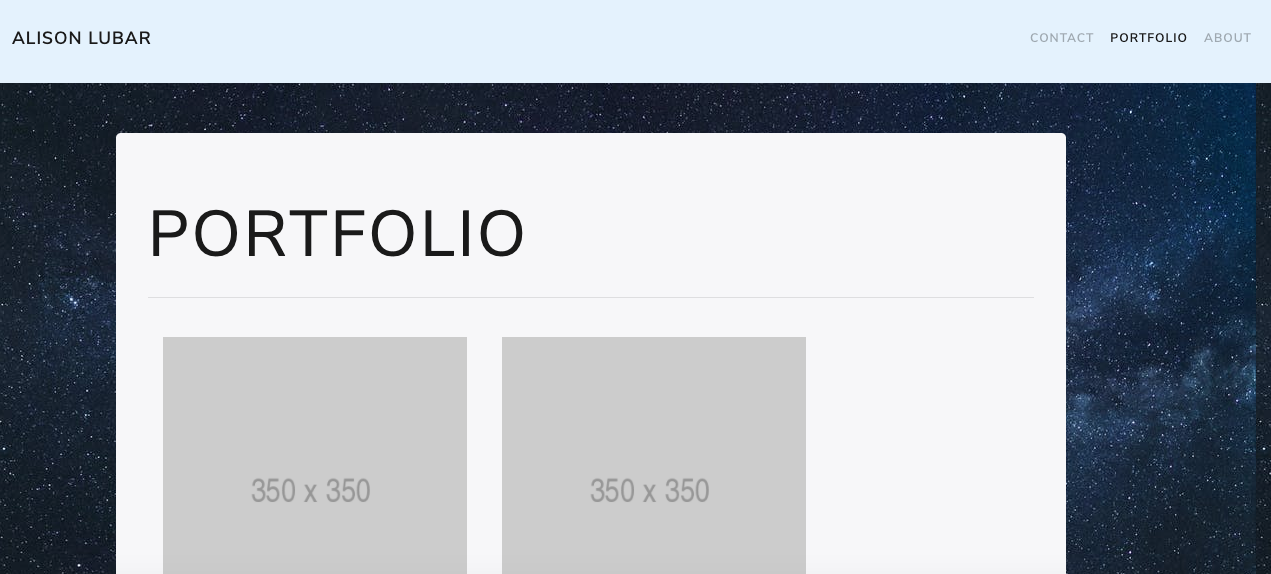
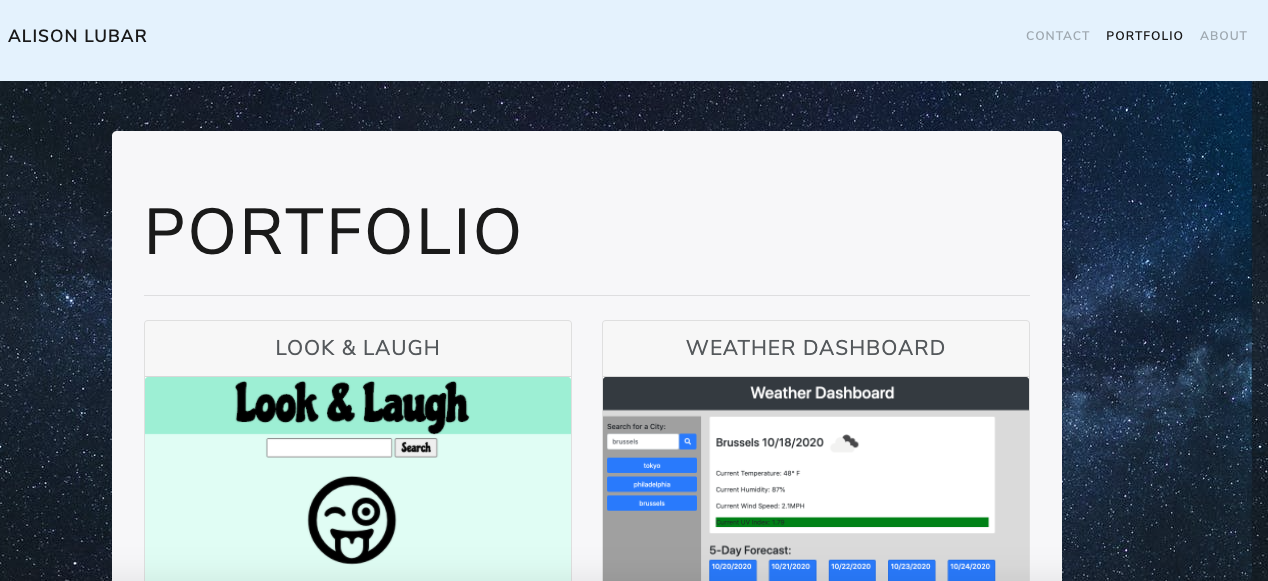
updated Readme

diff --git a/index.html b/index.html
@@ -48,8 +48,8 @@
             Journal, Cathexis Northwest Press, High Shelf, Gravitas, great
             weather for MEDIA, Toho, Rowan University’s Glassworks, Giovanni’s
             Room anthology
-            <em>queerbook</em>; she has work forthcoming with Fearsome
-            Critters, Storm of Blue Press, and Apiary Magazine. <br /><br />
+            <em>queerbook</em>, and Fearsome Critters' <em>Quaranzine</em>; she has work forthcoming with Apiary
+            Magazine. <br /><br />
             Alison graduated from the University of Delaware in 2007, with a
             double major in Philosophy and Italian literature. In 2009, while
             teaching at University City High School in West Philadelphia, she
@@ -72,6 +72,7 @@
         <section>
           <h2 class="socialMedia">CONNECT</h2>
           <p class="aboutme smLinks">
+
             LinkedIn:
             <a href="https://www.linkedin.com/in/alison-lubar-0210b31b3/"
               target="_blank">https://www.linkedin.com/in/alison-lubar-0210b31b3/</a><br />
@@ -85,7 +86,10 @@
         </section>
         <section>
           <h2 class="socialMedia">Resume</h2>
-          <p class="aboutme smLinks">Resume will go here. Location, & contact information
+          <p class="aboutme smLinks">
+            Phone: (610) 730-3014 </br>
+            Location: New Jersey & Philadelphia</br>
+            <a href="" download>Click here to download Alison's resume.</a>
           </p>
         </section>
       </div>

diff --git a/style/style.css b/style/style.css
@@ -70,12 +70,3 @@ body {
 .portfolio-card {
   font-size: 1.5em;
 }
-
-/* .card-img-top {
-  width: auto;
-  height: 250px;
-} */
-
-/* #lookLaugh {
-  wid
-} */

diff --git a/README.md b/README.md
@@ -1,8 +1,16 @@
-# porfolio
+# portfolio
 
-Originally created for Week 2 HW
+## Live Link
+[LINK TO DEPLOYED PAGE](https://theoriginalison.github.io/portfolio/)
 
-[LINK TO PAGE](https://theoriginalison.github.io/portfolio/)
+## Technology Used
+HTML
+Bootstrap & CSS
+
+## Description
+A responsive profile page that includes links to projects, contact information, a contact form, and resume.
+
+## Screenshots
 
 index.html (linked from both "Alison Lubar" and "About Me")
 ![Screenshot of the "About Me" / "Alison Lubar" page featuring a picture of Alison along with her bio"](./ReadMeImages.AboutMe.png)
@@ -11,38 +19,21 @@ contact.html (linked from "Contact")
 ![Screenshot of the "Contact" page featuring a box to enter name, email address, and a message to Alison.](./ReadMeImages.Contact.png)
 
 portfolio.html (linked from "Portfolio")
-![Screenshot of the "Portfolio" page showing grey placeholders where projects will soon be listed!](./ReadMeImages.Portfolio.png)
+![Screenshot of the "Portfolio" page showing four recent projects](./ReadMeImages.Portfolio.png)
 
-## Table of Contents
+## Features for Further Development
+- Links to CV
+- Embedded videos of performances
 
-_[Approach](#approach)
-_[Problems & Solutions](#changes)
-\_[Discoveries](#discoveries)
+## License
 
-## Approach & Process
+Copyright 2020 Alison Lubar
 
-- I began by making the index.html, since I notice that the containers across all three pages looked similar; this way, I could use index.html as a template, and style it exactly as I wanted it, and THEN replicate that for contact.html and portfolio.html. Jumbotron seemed the closest.
-- I used bootstrap's navbar, and created a footer that matched it in color by using the same hex name. It was right up against the navbar, so I added a margin.
-- I perused Bootswatch and found "Lux." I didn't want to be too bougie, so I kept the nav and footer light-colored.
-- I added a background image that's one of my favorite pictures (or at least, one in that subject). I found this on Pexels (free stock photos), and credited the source in the footer, with my copyright. I added this to the background using CSS.
-- Added alt text for my profile picture
-- After index.html's style was complete, I made two copies, turning one into contact.html and the other to portfolio.html.
-- Linked all three pages together not by web address, but by the html file, and made sure navbar button for the current (active) page was bolded.
-- To replicate the portfolio.html images as closely as possible, I used Placeholder.com to find 350px grey image squares. I put these in rows, then columns, to mirror the sample photo.
-- I use a form from Bootstrap to create the box for contact.html. I also made sure to match the type to the purpose of each box. I also added "Type your message to Alison here." as the grey text for the message box, to be a little more personal.
-- I grouped all CSS by common elements (since I stared with the index.html, and many elements were standard across all three pages, this maked this most sense). Then, I added comments to indicate where each page had CSS that was only relevant to that page.
-- I checked everything using W3's HTML Validator. It saw my image placeholders in portfolio.html as needing alt tags, which I added. I would rather add more alt tags than not.
-- Finally, I wrote the README and, taking feedback from my last homework, tried to add a link and images of the pages.
+Permission is hereby granted, free of charge, to any person obtaining a copy of this software and associated documentation files (the "Software"), to deal in the Software without restriction, including without limitation the rights to use, copy, modify, merge, publish, distribute, sublicense, and/or sell copies of the Software, and to permit persons to whom the Software is furnished to do so, subject to the following conditions:
 
-## Problems & Solutions
+The above copyright notice and this permission notice shall be included in all copies or substantial portions of the Software.
 
-- Text in About Me wouldn't wrap around the picture; one line would start, and then the rest of the text appeared below the picture. I fixed this by putting the image directly in the <p> tag and added float:left to the CSS, just for the picture.
-- About Me text was jagged on the right side, and I wanted a cleaner look. I used text-align: justify so all lines would be the same length.
-- Set zero margin for the footer so it would be flush against the bottom of the page-- I set the bottom margin to zero to fix that.
-- I spelled the name of my repo incorrectly at first! It was "porfolio," which was highly embarassing (English teacher here!). So, after pushing all of my changes, I renamed the repo on GitHub, and then pulled from the renamed repo to make sure I had the most current versions. In office hours, I double checked that this was fine, and Anthony suggested that I just create a new location on my computer with the proper name (which I did).
+THE SOFTWARE IS PROVIDED "AS IS", WITHOUT WARRANTY OF ANY KIND, EXPRESS OR IMPLIED, INCLUDING BUT NOT LIMITED TO THE WARRANTIES OF MERCHANTABILITY, FITNESS FOR A PARTICULAR PURPOSE AND NONINFRINGEMENT. IN NO EVENT SHALL THE AUTHORS OR COPYRIGHT HOLDERS BE LIABLE FOR ANY CLAIM, DAMAGES OR OTHER LIABILITY, WHETHER IN AN ACTION OF CONTRACT, TORT OR OTHERWISE, ARISING FROM, OUT OF OR IN CONNECTION WITH THE SOFTWARE OR THE USE OR OTHER DEALINGS IN THE SOFTWARE.
 
-## Discoveries
-
-- Viewport Units are a font-size value that can be used to easily scale to the viewport, making scaling much easier
-- Linking files within a folder is made easier when you can directly select them; in other words, the files or folders should pop up in VS Code as you're tying the route
-- Using <input> for the placeholder doesn't wrap text inside (like in context.html, and the default info in the form), but <textarea> does! It keeps the text in the boxes responsive. The text withIN the placeholder isn't responsive, but Tani said that it was ok. Also, the W3 Validator didn't like <textarea>, and wanted me to change it to <input>. But, again, it does what I want it to do.
+## Contact Information
+Email: aslubar@gmail.com
